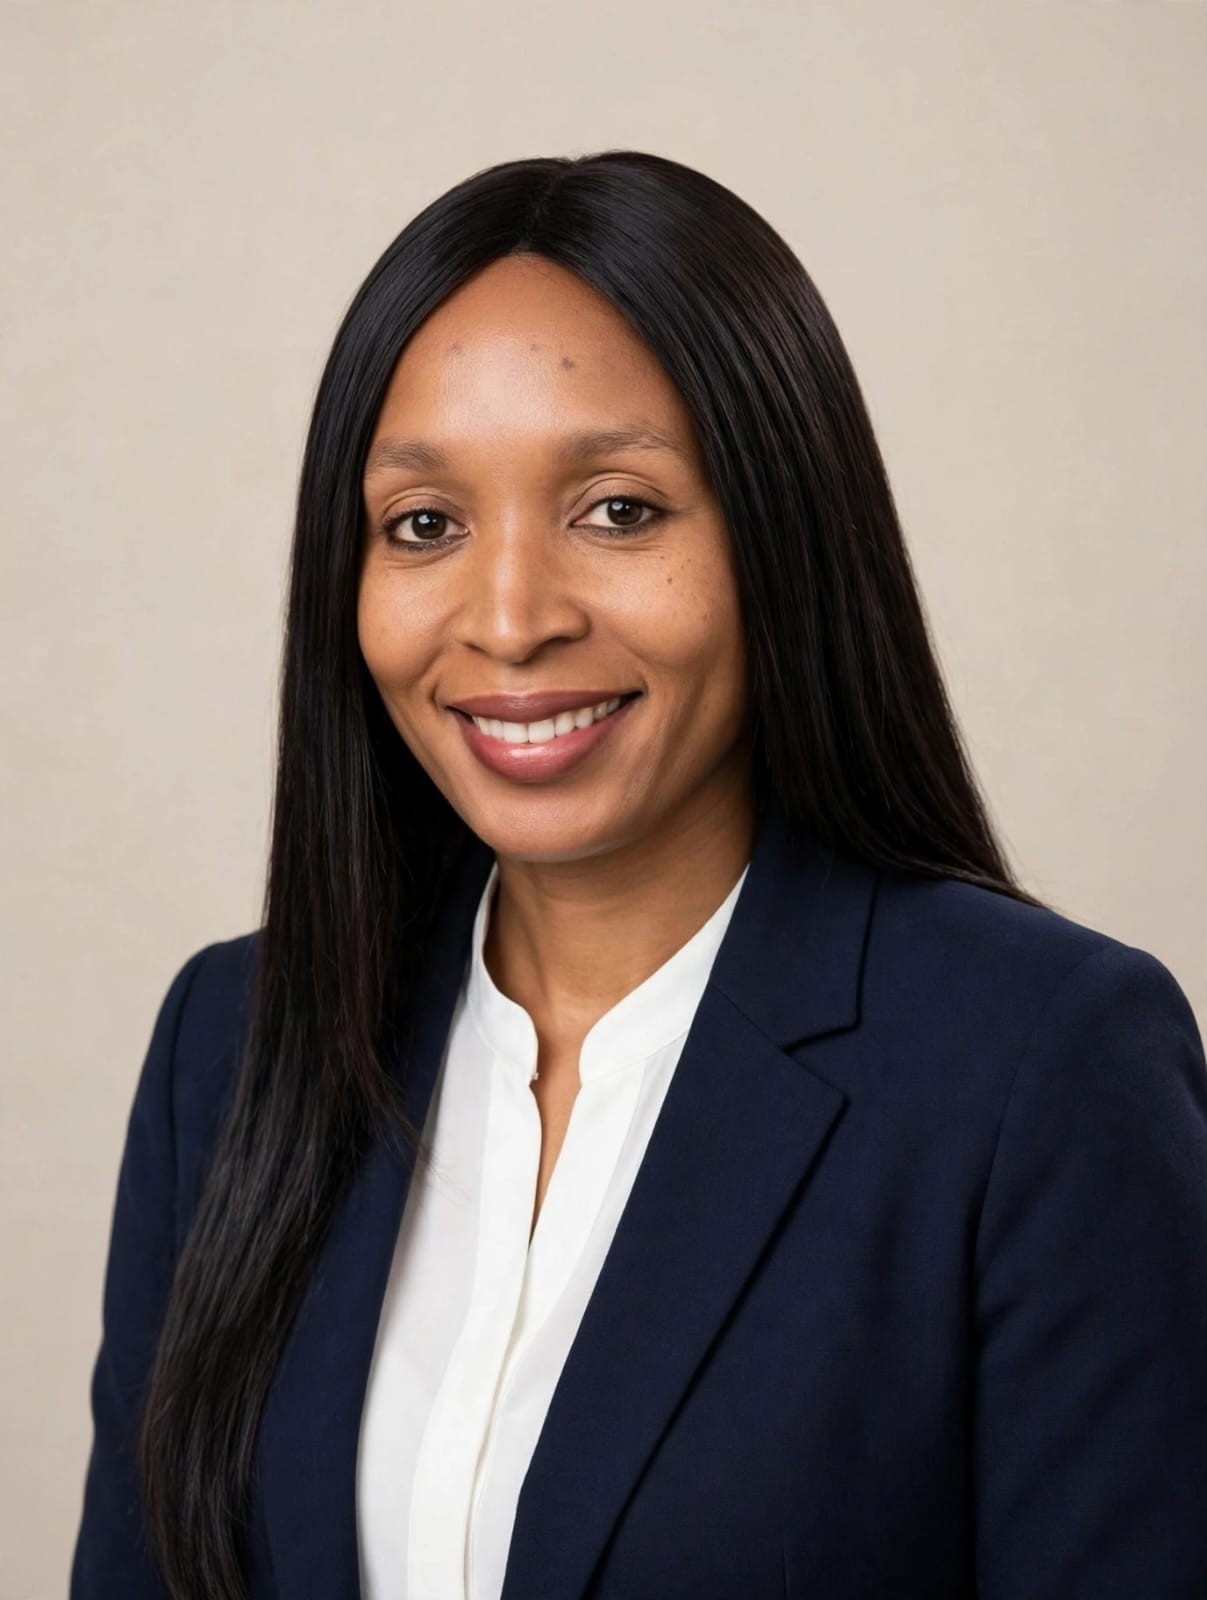
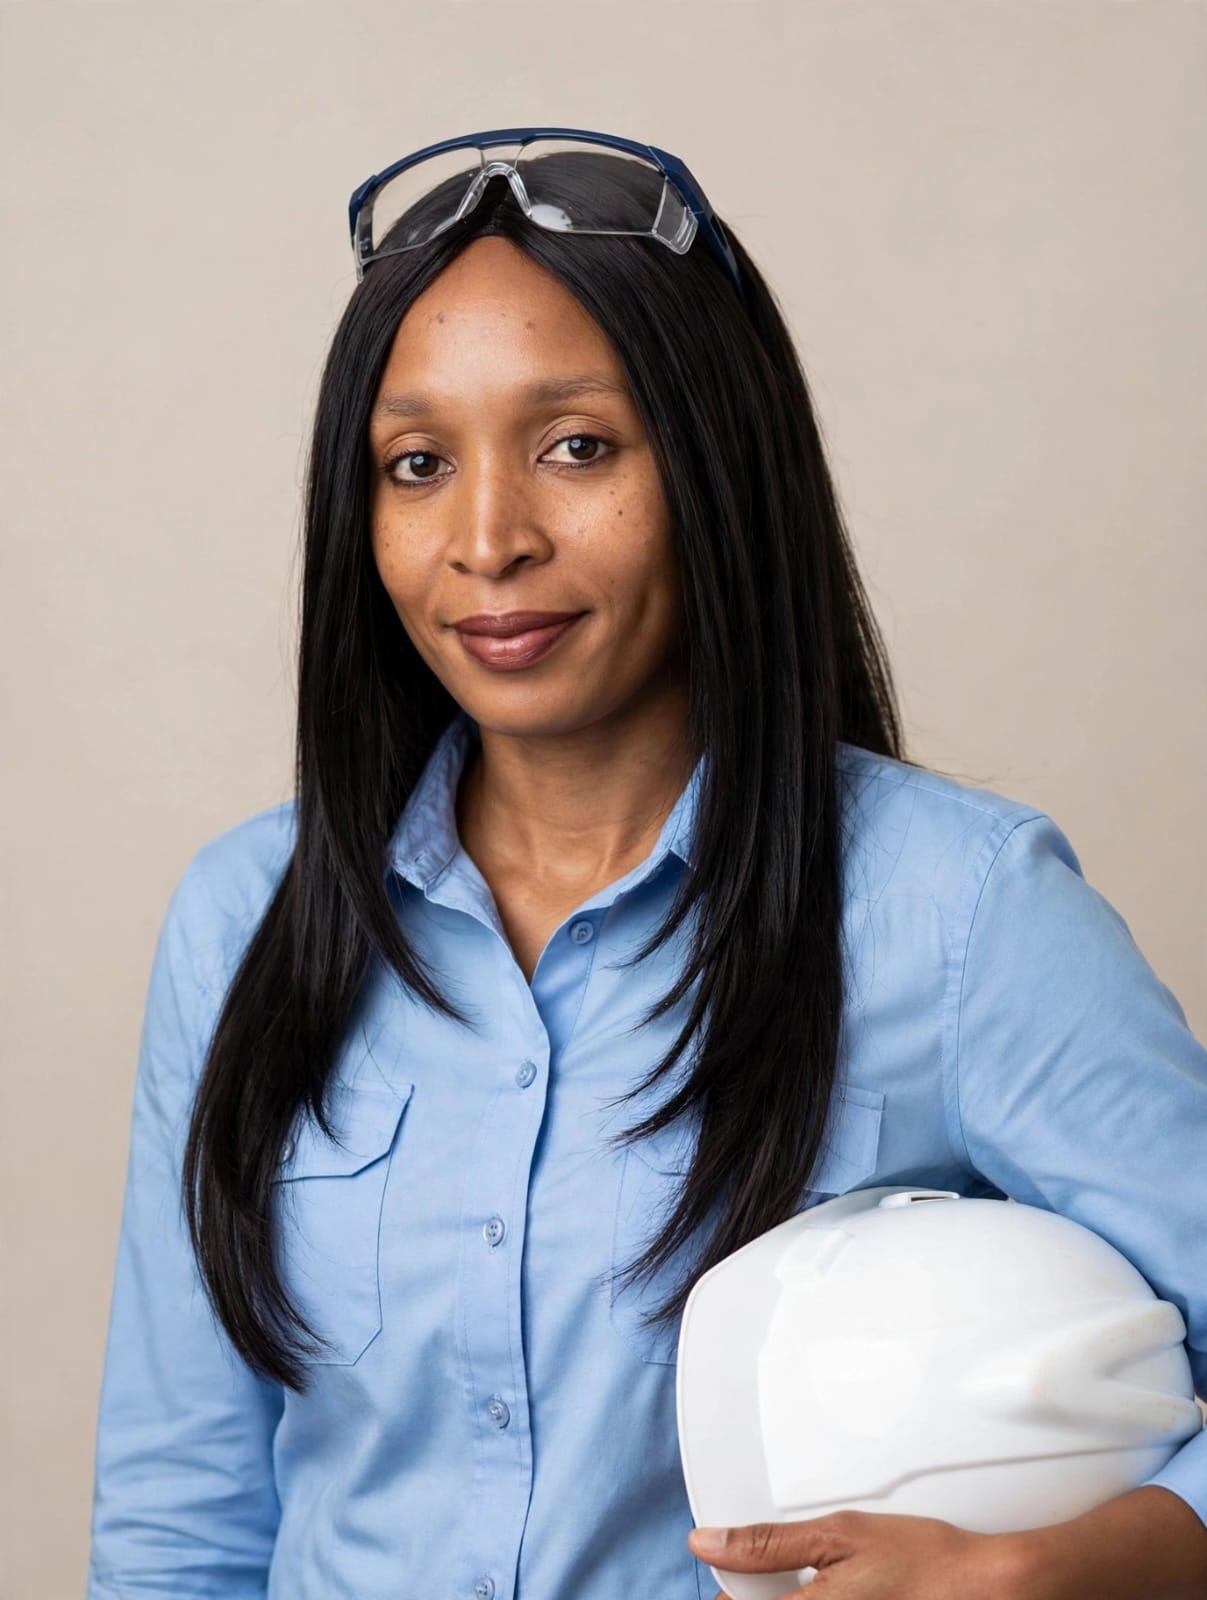
final

diff --git a/index.html b/index.html
@@ -95,7 +95,7 @@
     <section class="about" id="about">
       <div class="container flex items-center">
         <div class="left flex-1 about-img-container">
-          <img src="https://images.pexels.com/photos/3862627/pexels-photo-3862627.jpeg?auto=compress&cs=tinysrgb&dpr=2&w=600" alt="Engineering workspace and schematics" />
+          <img src="img1.jpeg" alt="Engineering workspace and schematics" />
         </div>
         <div class="right flex-1 about-content">
           <h1>About <span>Me</span></h1>
@@ -128,9 +128,7 @@
             >
               <i class="fa-brands fa-linkedin-in"></i>
             </a>
-            <a href="https://twitter.com" target="_blank" title="Twitter">
-              <i class="fa-brands fa-x-twitter"></i>
-            </a>
+            
             <a
               href="https://wa.me/254729993053"
               target="_blank"
